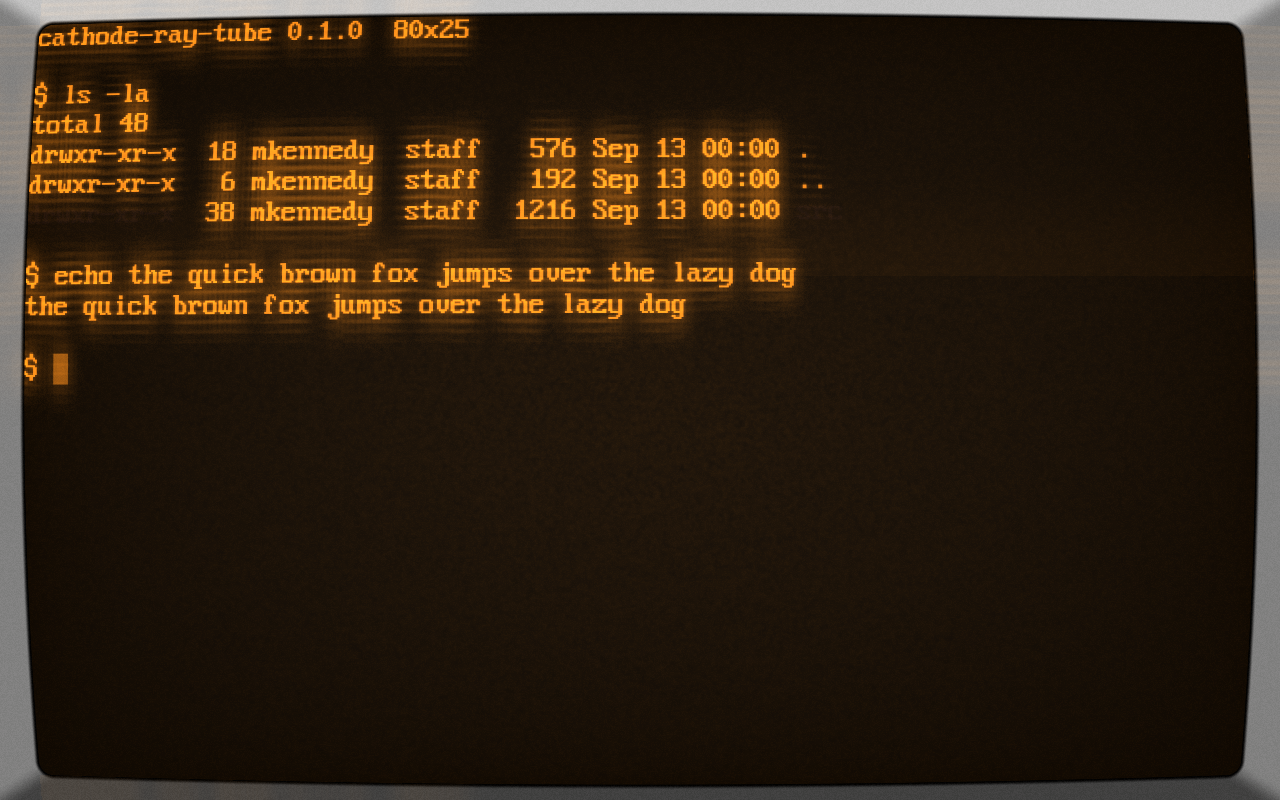
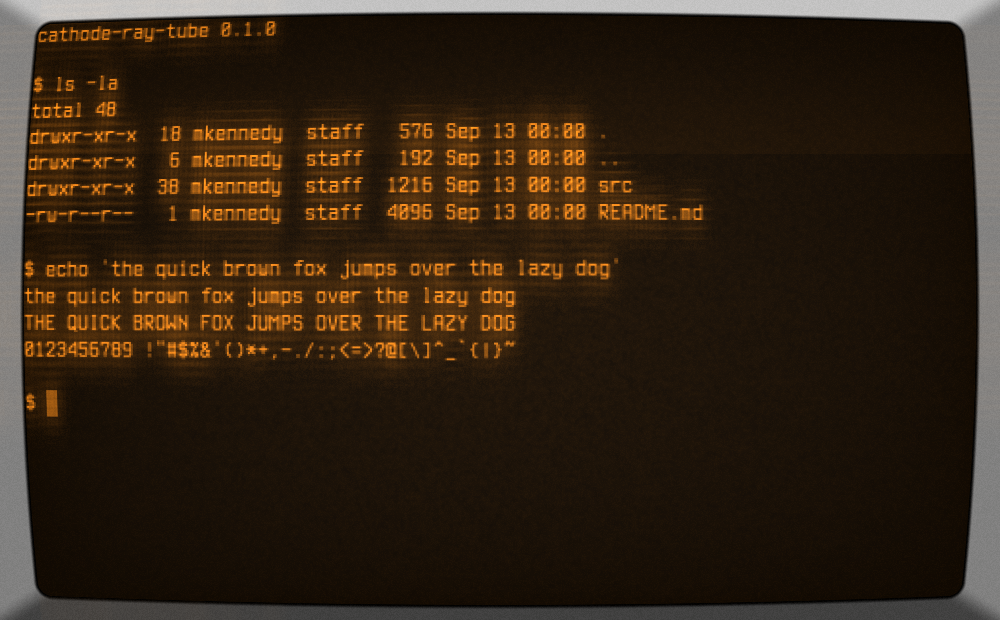
Gallery: all fourteen profiles, each in its own face
`make gallery' renders every profile headlessly into docs/gallery/.  Two things
had to be built first, and both were M4 work that the screenshots made due.

THE PROFILE-TO-FONT MAPPING.  Every profile names a face -- Default Amber wants
TERMINESS_SCALED, Commodore PET wants COMMODORE_PET_SCALED -- and until now they
all rendered in IBM VGA, which is half of what distinguishes them.  All 24 of
cool-retro-term's fontName values now map to a bundled file, with the names kept
exactly as upstream writes them so a profile file still travels between the two
programs.  A test asserts all fourteen resolve AND that the file is present; an
unresolvable name falls back to the default rather than refusing to open a
window, since a profile from a newer cool-retro-term may name a face this build
does not ship.

LINE SPACING.  Every one of the fourteen sets lineSpacing to 0.1 and it was
being ignored, so the rows touched -- which on the bitmap faces reads as a
rendering fault rather than as tight leading.  Commodore PET was the one that
made it obvious.  fontmanager.cpp:483 is qRound(targetPixelHeight * lineSpacing),
and qRound rather than CL:ROUND matters exactly here: a 15-pixel cell at 0.1
gives 2 rows one way and 1 the other.

The leading is a constant in the session rather than read from the profile,
because the WINDOW is sized before a profile is chosen and rows that changed
height when you switched profiles would be worse than leading that is slightly
[…]

Changed region(s): [[0.0, 0.0, 0.992, 1.0]]

diff --git a/README.md b/README.md
@@ -18,6 +18,17 @@ tearing and a procedural bezel — under any of the fourteen ported profiles.
 
 ![Default Amber](docs/gallery/default-amber.png)
 
+All fourteen, each in the face its profile names — `make gallery` regenerates
+them:
+
+| | | |
+|---|---|---|
+| ![Default Amber](docs/gallery/default-amber.png) Default Amber | ![Monochrome Green](docs/gallery/monochrome-green.png) Monochrome Green | ![Deep Blue](docs/gallery/deep-blue.png) Deep Blue |
+| ![Commodore 64](docs/gallery/commodore-64.png) Commodore 64 | ![Commodore PET](docs/gallery/commodore-pet.png) Commodore PET | ![Apple ][](docs/gallery/apple.png) Apple ][ |
+| ![Atari 400](docs/gallery/atari-400.png) Atari 400 | ![IBM VGA 8x16](docs/gallery/ibm-vga-8x16.png) IBM VGA 8x16 | ![IBM 3278 Reborn](docs/gallery/ibm-3278-reborn.png) IBM 3278 Reborn |
+| ![Neon Cyan](docs/gallery/neon-cyan.png) Neon Cyan | ![Ghost Terminal](docs/gallery/ghost-terminal.png) Ghost Terminal | ![Plasma](docs/gallery/plasma.png) Plasma |
+| ![Boring](docs/gallery/boring.png) Boring | ![E-Ink](docs/gallery/e-ink.png) E-Ink | |
+
 `make test` is 340 checks; `make app` builds a bundle and `make release` a
 signed, notarised disk image. Still to come: the font manager and a settings
 window.
